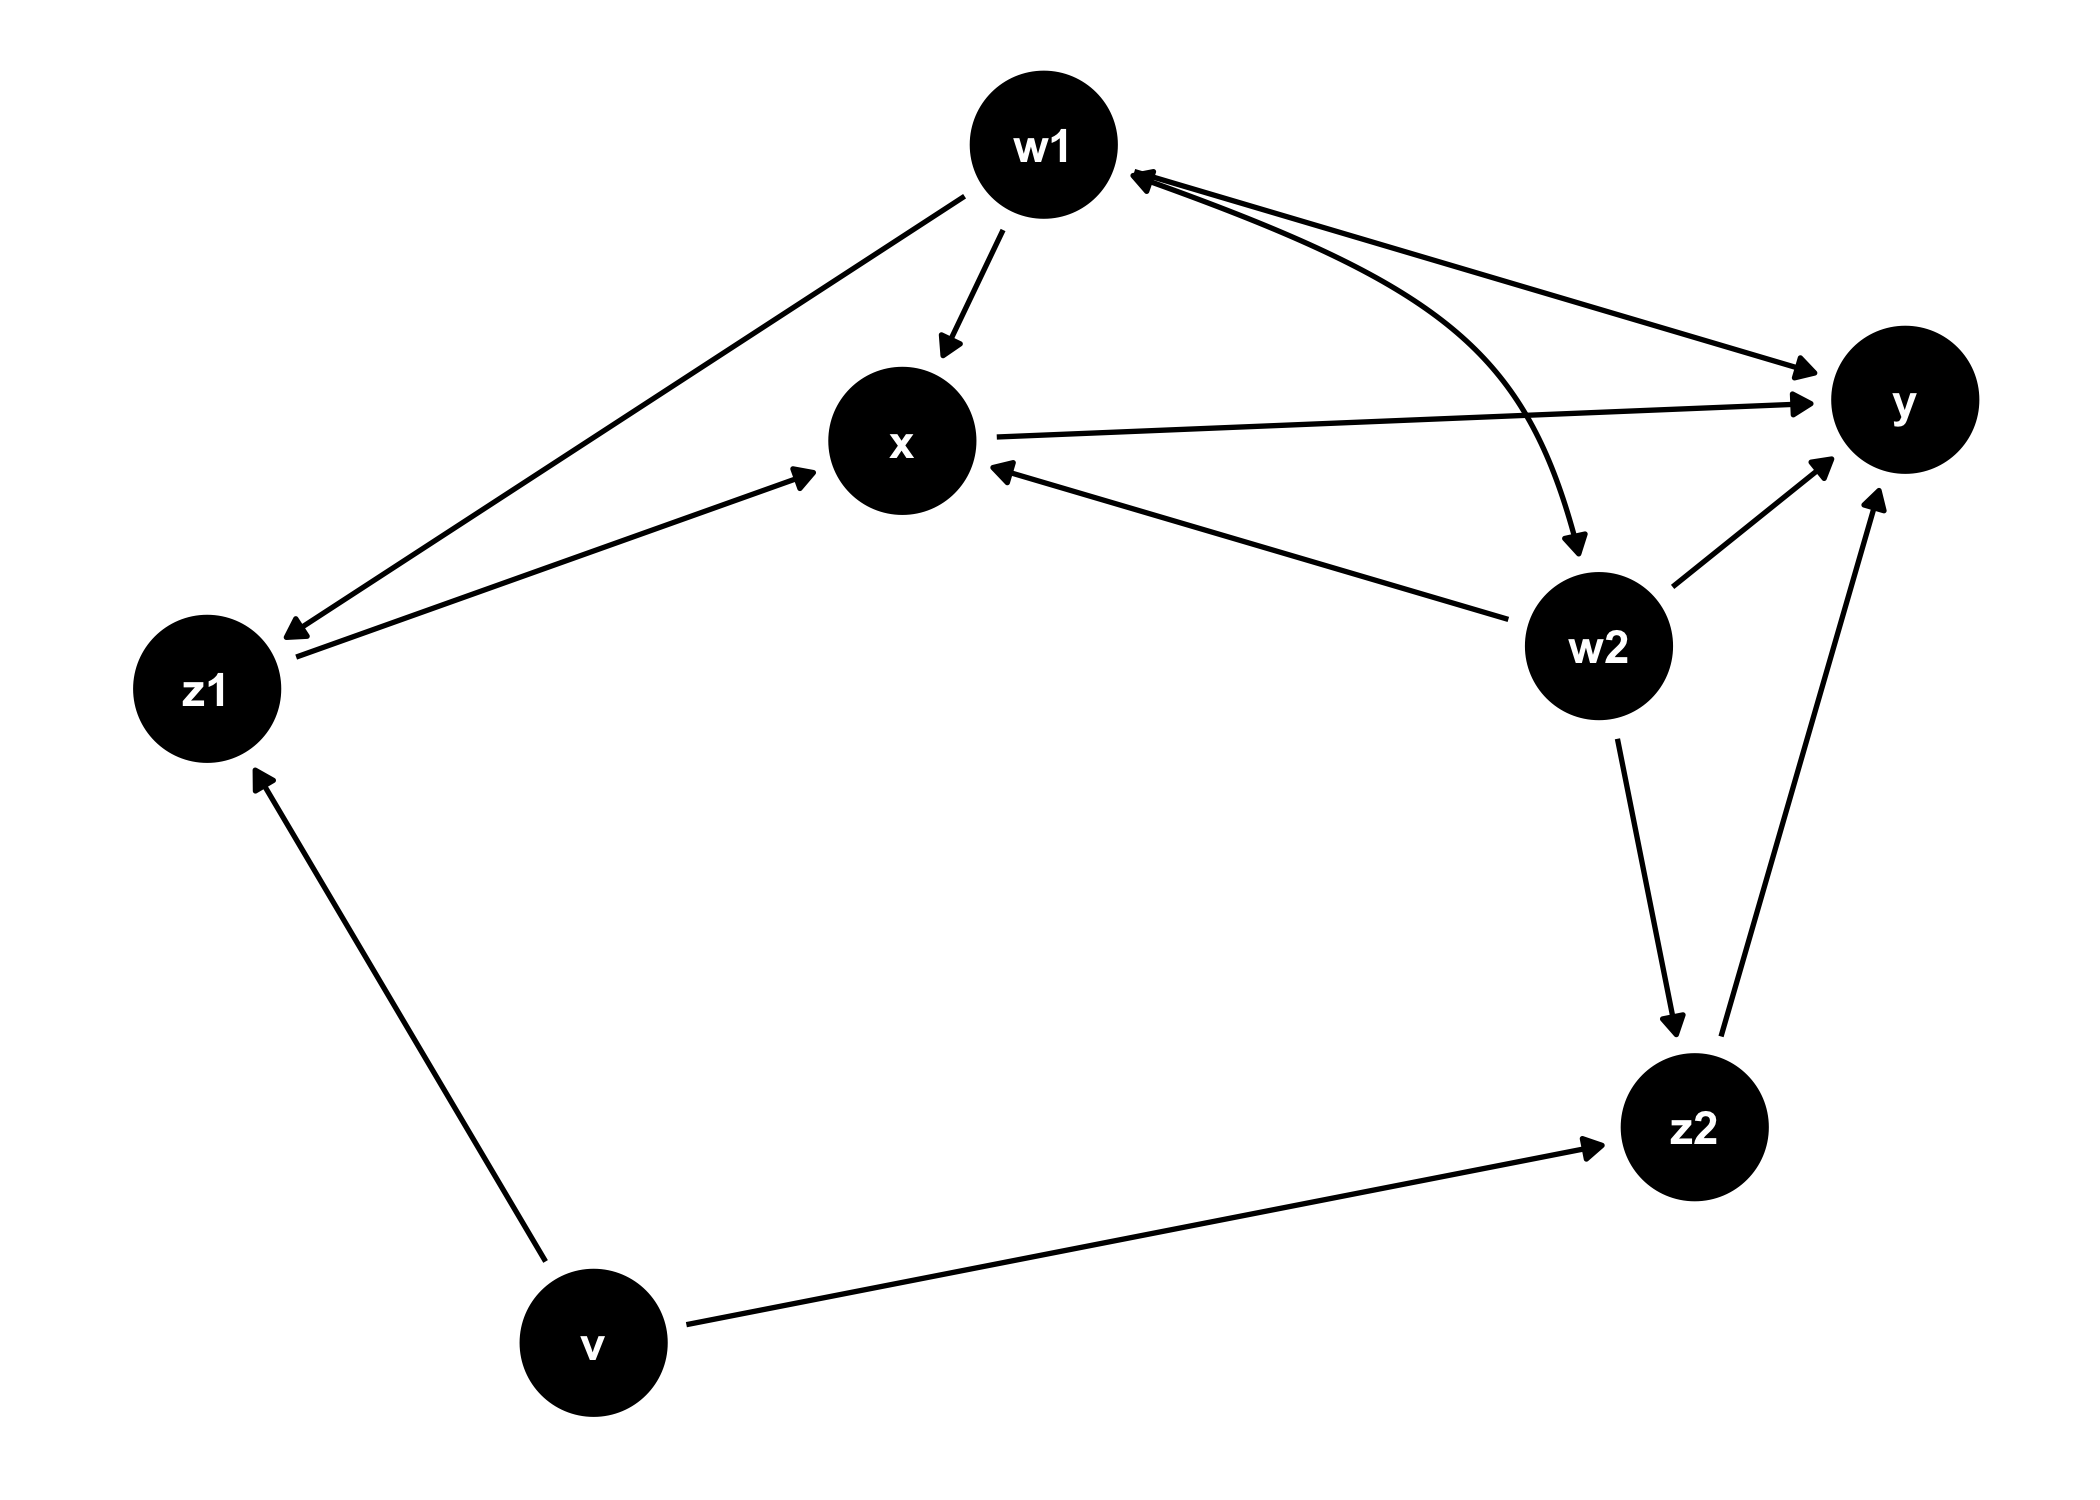
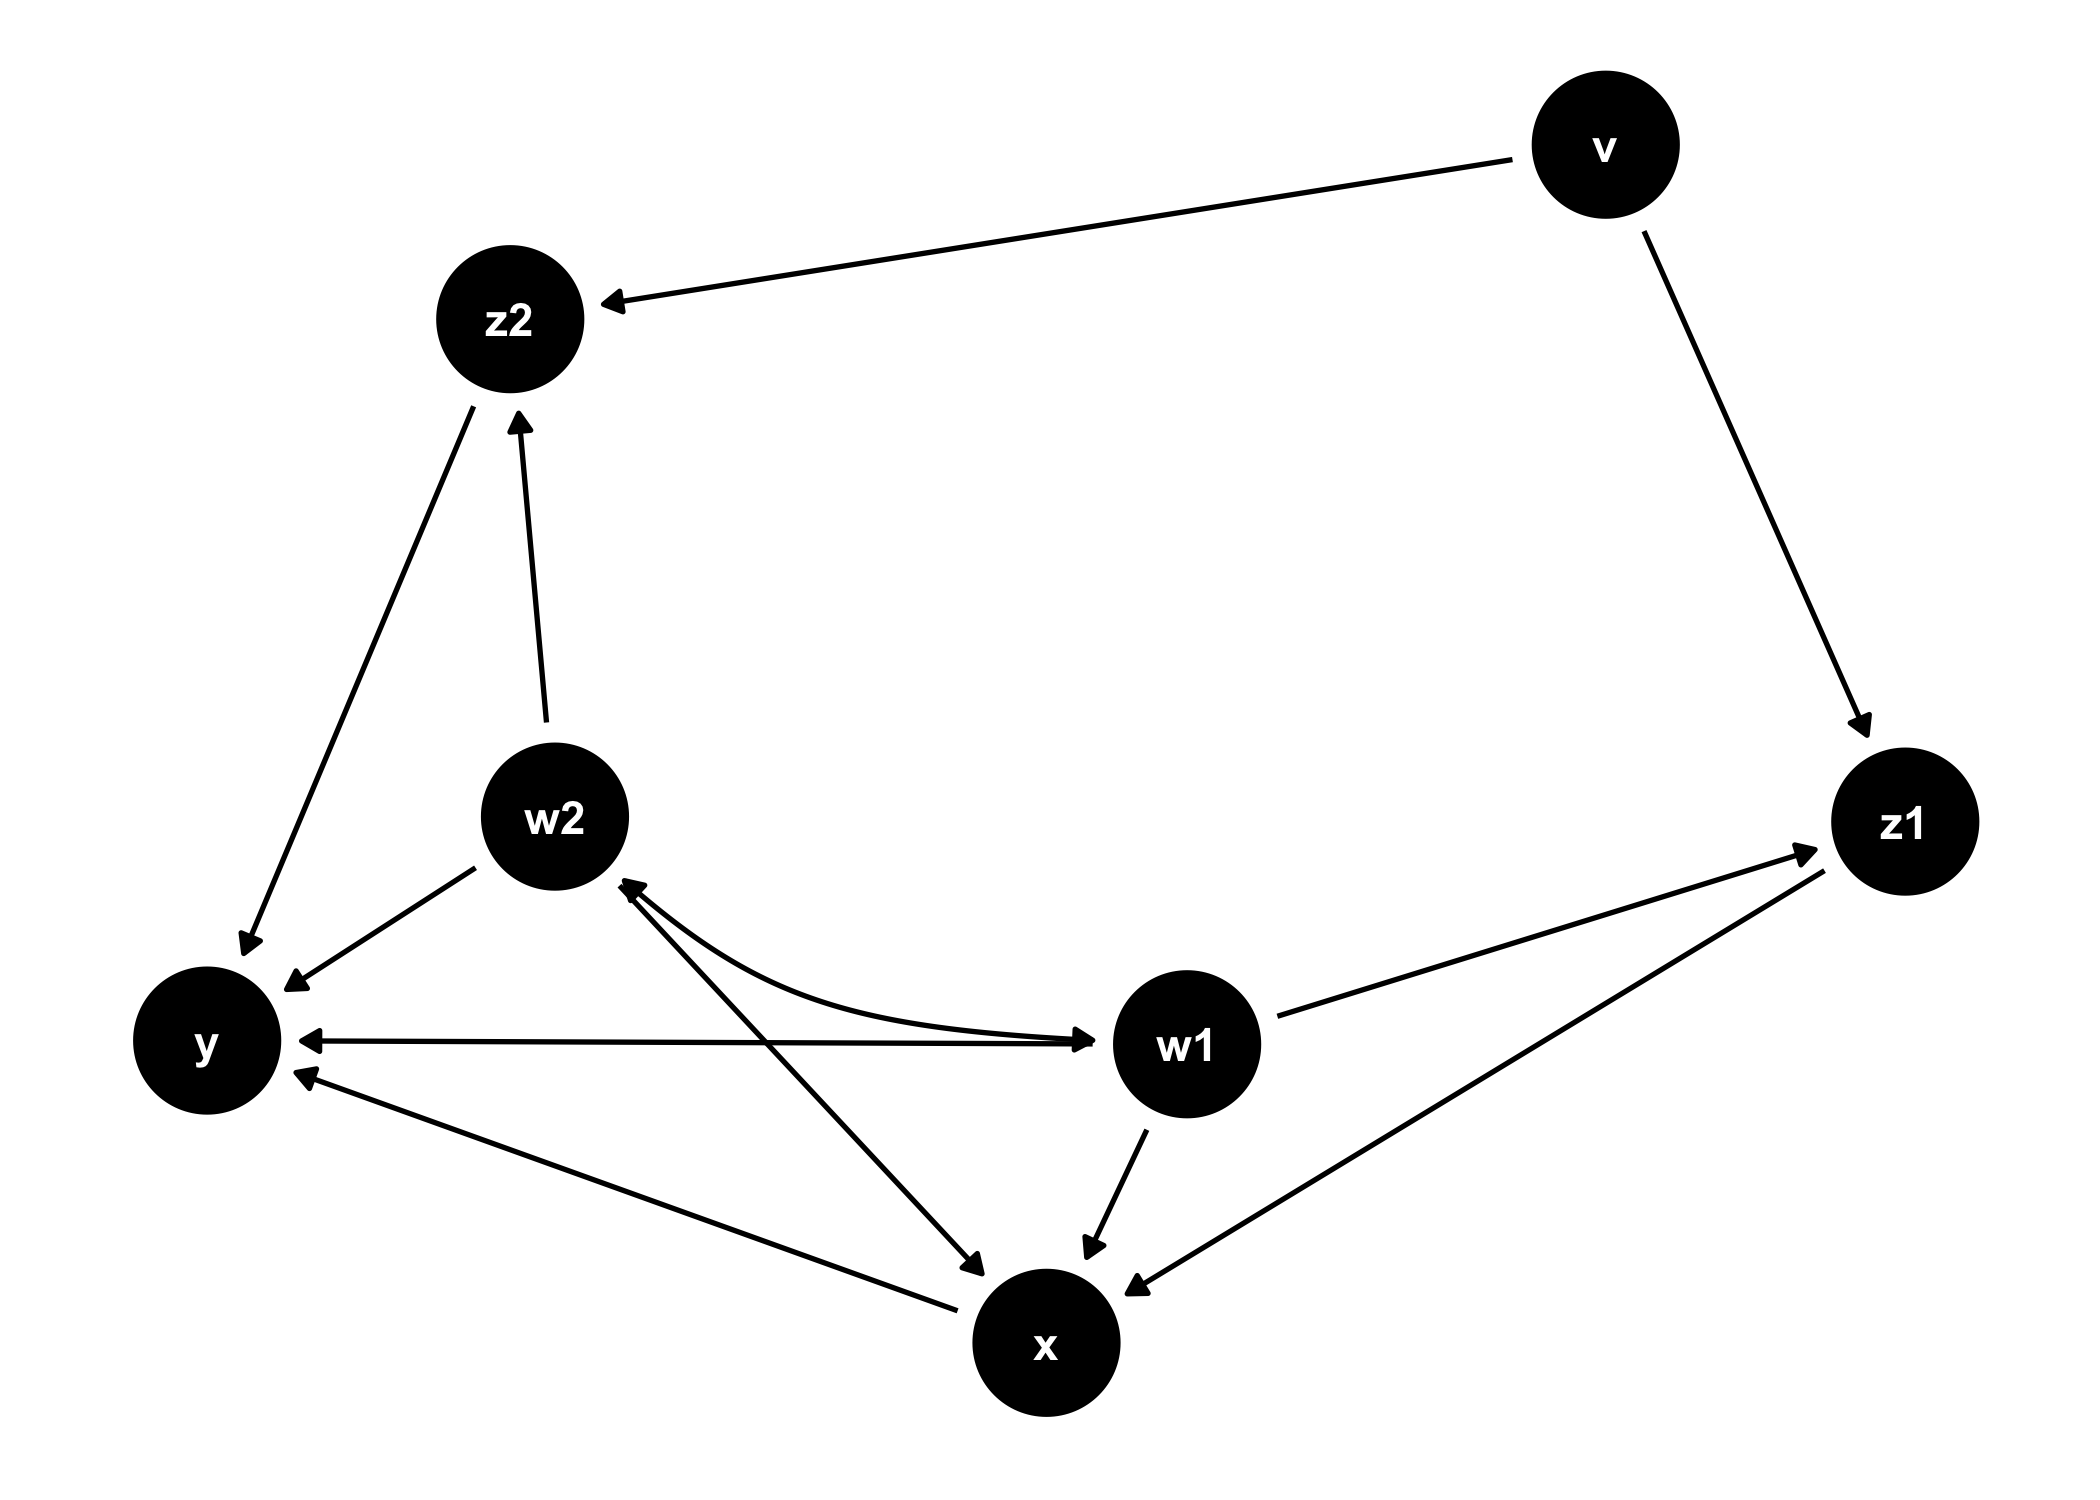
update CI. Fixes #150

diff --git a/README.md b/README.md
@@ -1,5 +1,6 @@
 
 <!-- README.md is generated from README.Rmd. Please edit that file -->
+
 <!-- badges: start -->
 
 [![R-CMD-check](https://github.com/r-causal/ggdag/workflows/R-CMD-check/badge.svg)](https://github.com/r-causal/ggdag/actions)
@@ -11,6 +12,7 @@ maturing](https://img.shields.io/badge/lifecycle-maturing-blue.svg)](https://lif
 coverage](https://codecov.io/gh/malcolmbarrett/ggdag/branch/main/graph/badge.svg)](https://app.codecov.io/gh/malcolmbarrett/ggdag?branch=main)
 [![Total CRAN
 downloads](https://cranlogs.r-pkg.org/badges/grand-total/ggdag)](https://cran.r-project.org/package=ggdag)
+[![R-CMD-check](https://github.com/malcolmbarrett/ggdag/actions/workflows/R-CMD-check.yaml/badge.svg)](https://github.com/malcolmbarrett/ggdag/actions/workflows/R-CMD-check.yaml)
 <!-- badges: end -->
 
 # ggdag: An R Package for visualizing and analyzing causal directed acyclic graphs <a href="https://r-causal.github.io/ggdag/"><img src="man/figures/logo.png" align="right" height="138" /></a>
@@ -64,21 +66,21 @@ tidy_dag
 #> # Outcome: y
 #> #
 #> # A tibble: 13 × 8
-#>    name       x      y direction to       xend   yend circular
-#>    <chr>  <dbl>  <dbl> <fct>     <chr>   <dbl>  <dbl> <lgl>   
-#>  1 v     0.496  -3.40  ->        z1     1.83   -2.92  FALSE   
-#>  2 v     0.496  -3.40  ->        z2     0.0188 -2.08  FALSE   
-#>  3 w1    1.73   -1.94  ->        x      2.07   -1.42  FALSE   
-#>  4 w1    1.73   -1.94  ->        y      1.00   -0.944 FALSE   
-#>  5 w1    1.73   -1.94  ->        z1     1.83   -2.92  FALSE   
-#>  6 w1    1.73   -1.94  <->       w2     0.873  -1.56  FALSE   
-#>  7 w2    0.873  -1.56  ->        x      2.07   -1.42  FALSE   
-#>  8 w2    0.873  -1.56  ->        y      1.00   -0.944 FALSE   
-#>  9 w2    0.873  -1.56  ->        z2     0.0188 -2.08  FALSE   
-#> 10 x     2.07   -1.42  ->        y      1.00   -0.944 FALSE   
-#> 11 y     1.00   -0.944 <NA>      <NA>  NA      NA     FALSE   
-#> 12 z1    1.83   -2.92  ->        x      2.07   -1.42  FALSE   
-#> 13 z2    0.0188 -2.08  ->        y      1.00   -0.944 FALSE
+#>    name       x     y direction to      xend   yend circular
+#>    <chr>  <dbl> <dbl> <fct>     <chr>  <dbl>  <dbl> <lgl>   
+#>  1 v     -0.180 0.946 ->        z1     1.20   0.608 FALSE   
+#>  2 v     -0.180 0.946 ->        z2     0.177  2.32  FALSE   
+#>  3 w1     1.64  1.49  ->        x      2.23   1.70  FALSE   
+#>  4 w1     1.64  1.49  ->        y      1.63   2.71  FALSE   
+#>  5 w1     1.64  1.49  ->        z1     1.20   0.608 FALSE   
+#>  6 w1     1.64  1.49  <->       w2     1.16   2.30  FALSE   
+#>  7 w2     1.16  2.30  ->        x      2.23   1.70  FALSE   
+#>  8 w2     1.16  2.30  ->        y      1.63   2.71  FALSE   
+#>  9 w2     1.16  2.30  ->        z2     0.177  2.32  FALSE   
+#> 10 x      2.23  1.70  ->        y      1.63   2.71  FALSE   
+#> 11 y      1.63  2.71  <NA>      <NA>  NA     NA     FALSE   
+#> 12 z1     1.20  0.608 ->        x      2.23   1.70  FALSE   
+#> 13 z2     0.177 2.32  ->        y      1.63   2.71  FALSE
 
 #  using more R-like syntax to create the same DAG
 tidy_ggdag <- dagify(
@@ -99,21 +101,21 @@ tidy_ggdag
 #> # Outcome: y
 #> #
 #> # A tibble: 13 × 8
-#>    name      x     y direction to     xend  yend circular
-#>    <chr> <dbl> <dbl> <fct>     <chr> <dbl> <dbl> <lgl>   
-#>  1 v     -3.58  3.30 ->        z1    -4.05  4.63 FALSE   
-#>  2 v     -3.58  3.30 ->        z2    -2.23  3.74 FALSE   
-#>  3 w1    -3.03  5.74 ->        x     -3.20  5.14 FALSE   
-#>  4 w1    -3.03  5.74 ->        y     -1.98  5.22 FALSE   
-#>  5 w1    -3.03  5.74 ->        z1    -4.05  4.63 FALSE   
-#>  6 w1    -3.03  5.74 <->       w2    -2.35  4.72 FALSE   
-#>  7 w2    -2.35  4.72 ->        x     -3.20  5.14 FALSE   
-#>  8 w2    -2.35  4.72 ->        y     -1.98  5.22 FALSE   
-#>  9 w2    -2.35  4.72 ->        z2    -2.23  3.74 FALSE   
-#> 10 x     -3.20  5.14 ->        y     -1.98  5.22 FALSE   
-#> 11 y     -1.98  5.22 <NA>      <NA>  NA    NA    FALSE   
-#> 12 z1    -4.05  4.63 ->        x     -3.20  5.14 FALSE   
-#> 13 z2    -2.23  3.74 ->        y     -1.98  5.22 FALSE
+#>    name          x     y direction to         xend  yend circular
+#>    <chr>     <dbl> <dbl> <fct>     <chr>     <dbl> <dbl> <lgl>   
+#>  1 v      0.696     4.02 ->        z1     1.07      2.66 FALSE   
+#>  2 v      0.696     4.02 ->        z2    -0.669     3.67 FALSE   
+#>  3 w1     0.175     2.21 ->        x     -0.000636  1.61 FALSE   
+#>  4 w1     0.175     2.21 ->        y     -1.05      2.22 FALSE   
+#>  5 w1     0.175     2.21 ->        z1     1.07      2.66 FALSE   
+#>  6 w1     0.175     2.21 <->       w2    -0.613     2.67 FALSE   
+#>  7 w2    -0.613     2.67 ->        x     -0.000636  1.61 FALSE   
+#>  8 w2    -0.613     2.67 ->        y     -1.05      2.22 FALSE   
+#>  9 w2    -0.613     2.67 ->        z2    -0.669     3.67 FALSE   
+#> 10 x     -0.000636  1.61 ->        y     -1.05      2.22 FALSE   
+#> 11 y     -1.05      2.22 <NA>      <NA>  NA        NA    FALSE   
+#> 12 z1     1.07      2.66 ->        x     -0.000636  1.61 FALSE   
+#> 13 z2    -0.669     3.67 ->        y     -1.05      2.22 FALSE
 ```
 
 `ggdag` also provides functionality for analyzing DAGs and plotting them
